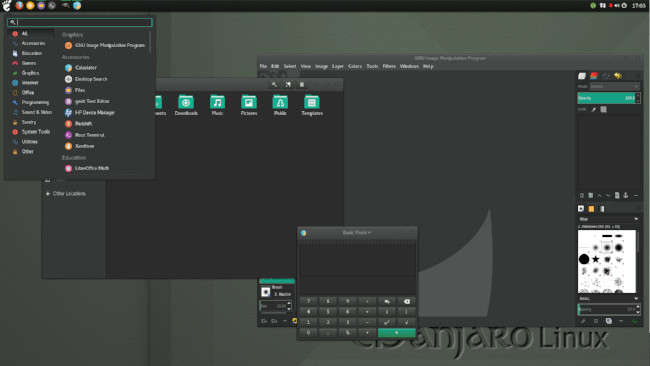
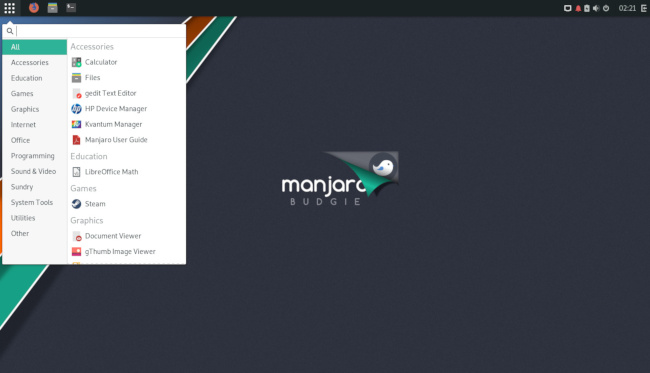
[download] add Budgie 18.0.1

diff --git a/site/content/download/budgie.md b/site/content/download/budgie.md
@@ -1,0 +1,21 @@
++++
+Download_x64 = "https://osdn.net/dl/manjaro-community/manjaro-budgie-18.0.1-stable-x86_64.iso"
+Download_x64_Checksum = "a3971b70d3e2868f0a742a7e7dfcec967476e40e"
+Download_x64_Sig = "https://osdn.net/dl/manjaro-community/manjaro-budgie-18.0.1-stable-x86_64.iso.sig"
+Download_x64_Torrent = "https://osdn.net/dl/manjaro-community/manjaro-budgie-18.0.1-stable-x86_64.iso.torrent"
+Download_x86 = ""
+Download_x86_Checksum = ""
+Download_x86_Sig = ""
+Download_x86_Torrent = "https://sourceforge.net/projects/manjarotorrents/files/community/"
+Name = "Budgie Edition"
+Screenshot = "budgie-full.jpg"
+ShortDescription = "This edition is supported by the Manjaro community and comes with Budgie, the desktop of the [Solus project](https://solus-project.com/). Budgie focuses on providing a simple-to-use and elegant desktop that fulfills the needs of a modern user."
+Tags = [ "resourceefficient", "beginnerfriendly" ]
+TargetGroup = "For people who want a simple and elegant desktop"
+Thumbnail = "budgie.jpg"
+Version = "18.08.1"
+date = "23.12.2018T02:36:05+01:00"
+title = "budgie"
+type="download-edition"
++++
+
